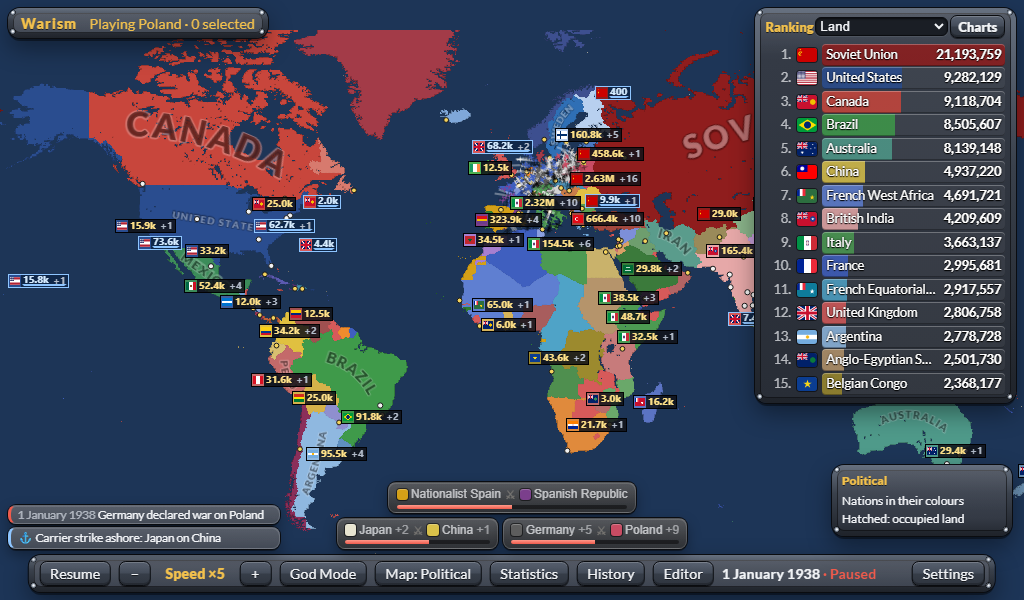
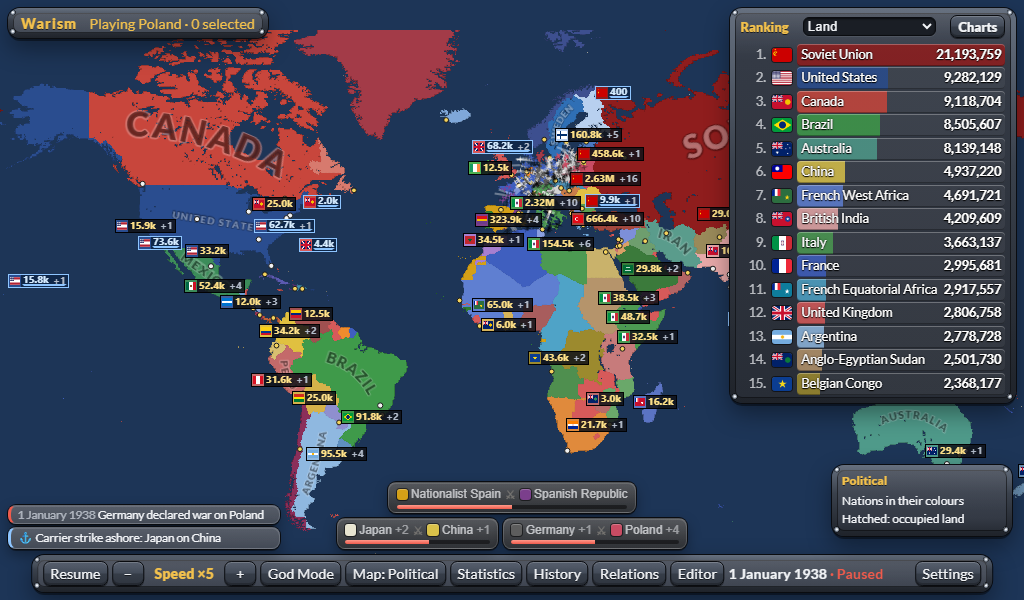
R70b: the historical track's line on a phone, short and on two rows
"12 Mar 1938: The Anschluss" whole at 11 px (ADR-964).

Claude-Session: https://claude.ai/code/session_014ysdiL78dQ76Wb3Pk7Xg8s

diff --git a/src/ui/BottomBar.tsx b/src/ui/BottomBar.tsx
@@ -5,6 +5,7 @@ import type { SimDate } from '../shared/calendar';
 import { MAP_MODES, type MapMode } from '../shared/mapModes';
 import { SPEED_LEVELS } from '../shared/speed';
 import { t, type MessageKey } from './i18n';
+import { usePhone } from './usePhone';
 
 export interface BottomBarProps {
   date: SimDate;
@@ -67,6 +68,7 @@ function speedLabels(): string {
  */
 export function BottomBar({ date, trackNext, speedLevel, paused, onTogglePause, onSpeed, mapMode, onMapMode, showStats, onToggleStats, godMode, onToggleGod, showHistory, onToggleHistory, showRelations, onToggleRelations, showEditor, onToggleEditor, showSettings, onToggleSettings, godTools, onCancel, diplomacy }: BottomBarProps) {
   const isMax = SPEED_LEVELS[speedLevel] === 'max';
+  const phone = usePhone();
   // How far the bar's top is from the view's bottom, for what stands above it (PLAN 7.4f25): the
   // bar wraps onto rows where it is narrow.
   const bar = useRef<HTMLElement>(null);
@@ -150,7 +152,7 @@ export function BottomBar({ date, trackNext, speedLevel, paused, onTogglePause, 
         </span>
         {trackNext ? (
           <span class="bar-track" data-testid="track-next" title={trackLine(trackNext)}>
-            {trackLine(trackNext)}
+            {phone ? trackLineShort(trackNext) : trackLine(trackNext)}
           </span>
         ) : null}
       </span>
@@ -166,6 +168,14 @@ export function BottomBar({ date, trackNext, speedLevel, paused, onTogglePause, 
 /** The track's next event under the date (ROADMAP R62j1): "Next, 12 March 1938: The Anschluss". */
 function trackLine({ note, date }: { note: string; date: SimDate }): string {
   return t('bar.trackNext', { date: t('date.format', { day: date.day, month: t(`month.${date.month}` as MessageKey), year: date.year }), note });
+}
+
+/**
+ * On a phone (R70b; critic run 64, R64-N1: at 11 px in 150 px "Next, 12 March 1938: The An…"): "12 Mar 1938: The
+ * Anschluss", on two rows of the bar's (style.css); whole in the tooltip as before.
+ */
+function trackLineShort({ note, date }: { note: string; date: SimDate }): string {
+  return t('bar.trackNextShort', { date: t('date.format', { day: date.day, month: t(`monthShort.${date.month}` as MessageKey), year: date.year }), note });
 }
 
 /** The key of each map mode, by its place in MAP_MODES (`game.tsx`'s MODE_KEYS: 1 to 9, then 0). */

diff --git a/tests/e2e/trackView1938h.spec.ts b/tests/e2e/trackView1938h.spec.ts
@@ -37,7 +37,11 @@ for (const size of SIZES) {
     await stepTo(page, 2);
     const line = page.getByTestId('track-next');
     await expect(line).toContainText('The Anschluss');
-    await expect(line).toContainText('12 March 1938');
+    // On a phone the date is short (R70b: "12 Mar 1938: The Anschluss", on two rows), the line whole and ≥ 11 px.
+    await expect(line).toContainText(size.name === 'phone' ? '12 Mar 1938' : '12 March 1938');
+    const fit = await line.evaluate((e) => ({ whole: e.scrollWidth <= e.clientWidth && e.scrollHeight <= e.clientHeight, px: parseFloat(getComputedStyle(e).fontSize) }));
+    expect(fit.whole).toBe(true);
+    if (size.name === 'phone') expect(fit.px).toBeGreaterThanOrEqual(11);
     // An event the game tells no other way is told by its name (R62j1): Japan's occupation on the first day.
     await expect(page.getByTestId('ticker')).toContainText('Shanghai and Nanjing');
     await page.screenshot({ path: path.join(out, `track-next-${size.name}.png`) });

diff --git a/src/app/style.css b/src/app/style.css
@@ -256,11 +256,18 @@ textarea,
   font-weight: 400;
   opacity: 0.85;
 }
-/* On a phone 0.72em is under 9 px (R65c): 11 px, in the same width (17 × 0.72 em of the bar's 12.24 px). */
+/* On a phone 0.72em is under 9 px (R65c): 11 px, in the same width (17 × 0.72 em of the bar's 12.24 px), on two
+   rows of a fixed height (R70b: one row held ~8 letters of a note after the date; the bar keeps its height). */
 @media (max-width: 600px), (max-height: 500px) {
   .bar-track {
     font-size: 11px;
     width: 150px;
+    height: 2.3em;
+    white-space: normal;
+    display: -webkit-box;
+    -webkit-box-orient: vertical;
+    -webkit-line-clamp: 2;
+    line-clamp: 2;
   }
 }
 

diff --git a/ROADMAP.md b/ROADMAP.md
@@ -54,9 +54,10 @@ Before Batch 18: two are regressions of Batch 17's own fixes.
     `npx tsx critic/scripts/c64_transfer.ts` shows no row hidden but a told transfer's own (its `to` and `from`), and a
     death's only in the hour after; `tests/unit/historyTransferTold1938h.test.ts` gains the case.
     Done (ADR-963, cb35c27a): giver, receiver and hour matched; both 8 May rows shown again.
-  - [ ] R70b R64-N1: on a phone the track's line shows ~8 letters of its note (11 px in 150 px: "Next, 12 March 1938:
+  - [x] R70b R64-N1: on a phone the track's line shows ~8 letters of its note (11 px in 150 px: "Next, 12 March 1938:
     The An…"). AT: in `node critic/scripts/c64_h_phone.mjs 390 844` and `844 390` the Anschluss's line whole, its
     text ≥ 11 px.
+    Done (ADR-964): "12 Mar 1938: …" on two rows on a phone, whole at both sizes; `trackView1938h.spec.ts`.
   - [ ] R70c Small, from run 64: a paused start's bar says "Pause" while the world builds; Slovakia's "annexed" and
     "destroyed" in one hour (8 May 1945); the "Next" line blank ~0.4 s when over 9 named events fall in a second. AT:
     each seen fixed in its probe (`c64_*`), or the reason it is left in the item.

diff --git a/DECISIONS.md b/DECISIONS.md
@@ -99,3 +99,12 @@ from AoC are tagged **[AoC-DEVIATION]**.
 - **Measured:** `c64_transfer.ts` shows both rows again; `tests/unit/historyTransferTold1938h.test.ts` gains the case
   (red on the code before).
 
+### ADR-964 · 2026-11-11 · accepted — The track's line on a phone: short, on two rows (R70b, R64-N1)
+- **Cause** (critic run 64, `c64_h_phone.mjs`): ADR-962's 11 px in the same 150 px held ~29 characters, 21 of them
+  "Next, 12 March 1938: ": "The An…" (the notes' median is 46 characters; a phone has no hover for the tooltip).
+- **Rule:** on a phone (`PHONE_QUERY`) the line reads "12 Mar 1938: The Anschluss" (`bar.trackNextShort`,
+  `monthShort.*`) on two rows of a fixed height (the bar does not change its height with the note); the tooltip whole.
+- **Measured:** the probe at 390 × 844 and 844 × 390: "12 Mar 1938: The Anschluss" whole (150 of 150 px); "1 Jan 1938:
+  Japan's occupation: North China" whole on two rows; `tests/e2e/trackView1938h.spec.ts` asks the line whole at both
+  sizes and ≥ 11 px on a phone; the bar's and the phone's layout specs green.
+

diff --git a/SPEC.md b/SPEC.md
@@ -1741,7 +1741,7 @@ to 27 July 1953, then sets the world free.
 - **The player's view** (built, R62j1, ADR-946): while the track runs a line under the date names its next event that
   has a name and its date (not the steering's: `hold`, `objective`, `buff`, `redeploy`), the first of the next and the
   `TRACK_AHEAD` (8) after it that the stats carry whose hour is not behind the shown one (R64f, R65a, ADR-960;
-  `src/app/trackShown.ts`); an event applied that the game
+  `src/app/trackShown.ts`); on a phone "12 Mar 1938: …", 11 px on two rows (R70b, ADR-964); an event applied that the game
   tells no other way (a transfer, an occupation, a pocket, an arrival, a seat moved, a rename) is a `TrackEvent` row,
   told in the ticker and the History by its note, once a day (R64b, ADR-953), a transfer so told not again as its own
   land handed over (its giver and receiver, its hour) or the end of a nation it took from (R65c, R70a; ADR-962,

diff --git a/PROGRESS.md b/PROGRESS.md
@@ -47,3 +47,8 @@
   from Hungary" shown again (`c64_transfer.ts`). Evidence: `tests/unit/historyTransferTold1938h.test.ts` (cb35c27a;
   its tick and this entry a commit after, the script that wrote them stopped on the tick's text). Gate.
 
+## 2026-11-11 — R70b: the track's line on a phone, short and on two rows (ADR-964)
+
+- "12 Mar 1938: The Anschluss" whole at 390 × 844 and 844 × 390 (was "Next, 12 March 1938: The An…"), 11 px.
+- Evidence: `tests/e2e/trackView1938h.spec.ts` (whole, ≥ 11 px), the critic's `c64_h_phone.mjs`. Gate.
+
